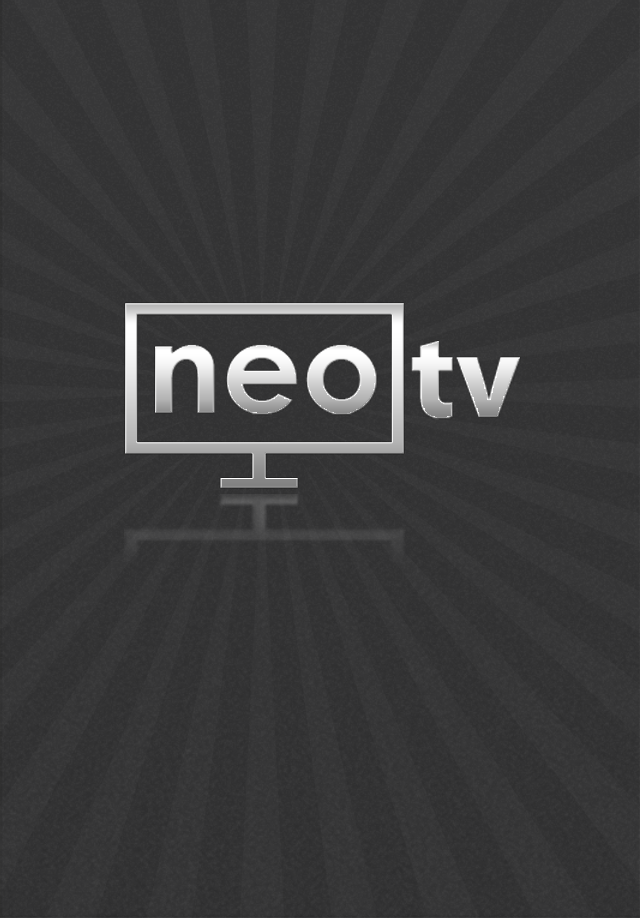
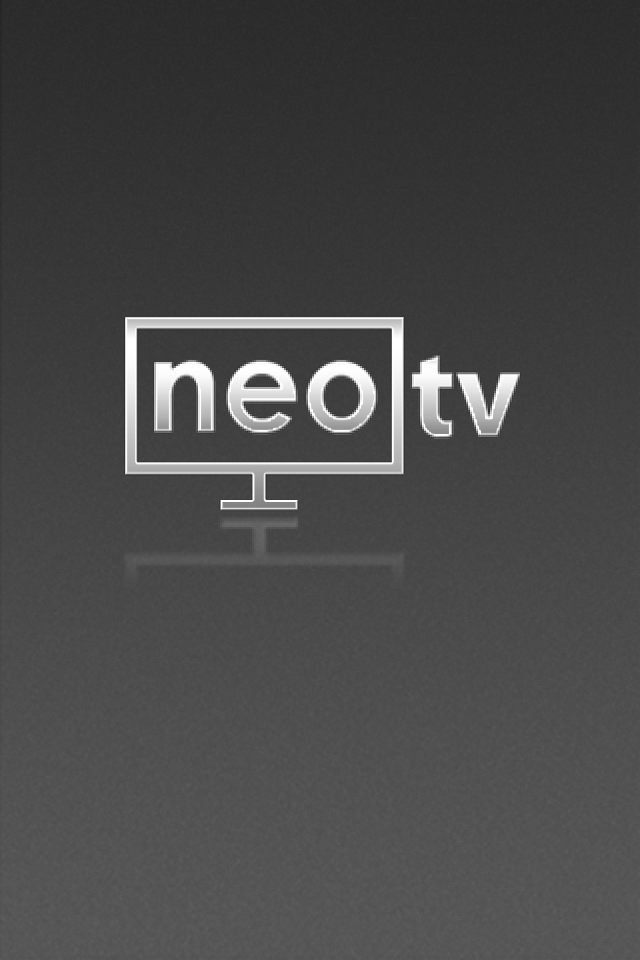
new splash
remote update

diff --git a/Resources/views/remote.js b/Resources/views/remote.js
@@ -13,13 +13,13 @@ Views.remote = function(win) {
 	
 	var current_playing_view = Titanium.UI.createView({
 		backgroundImage:'images/nowplaying/remote_now_showing_pane.png',
-		visible: false,
+		visible: true,
 		top: "235dp",
 		height: "66dp",
 		width: "270dp",
 	});
 	
-	var playing_image = Titanium.UI.createButton({
+	var playing_image = Titanium.UI.createView({
 		width: "35dp",
 		height: "35dp",
 		left:"10dp",
